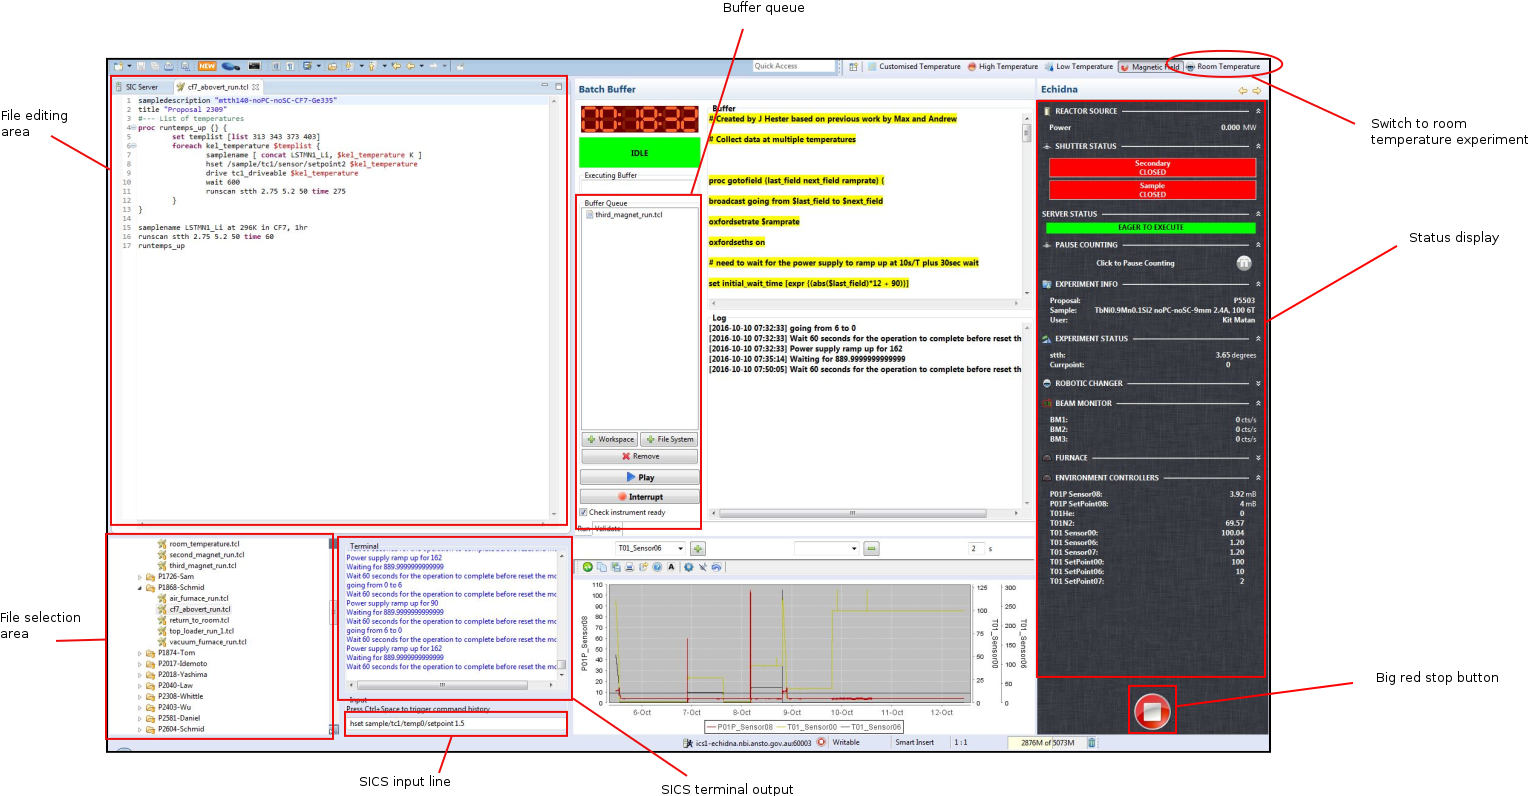
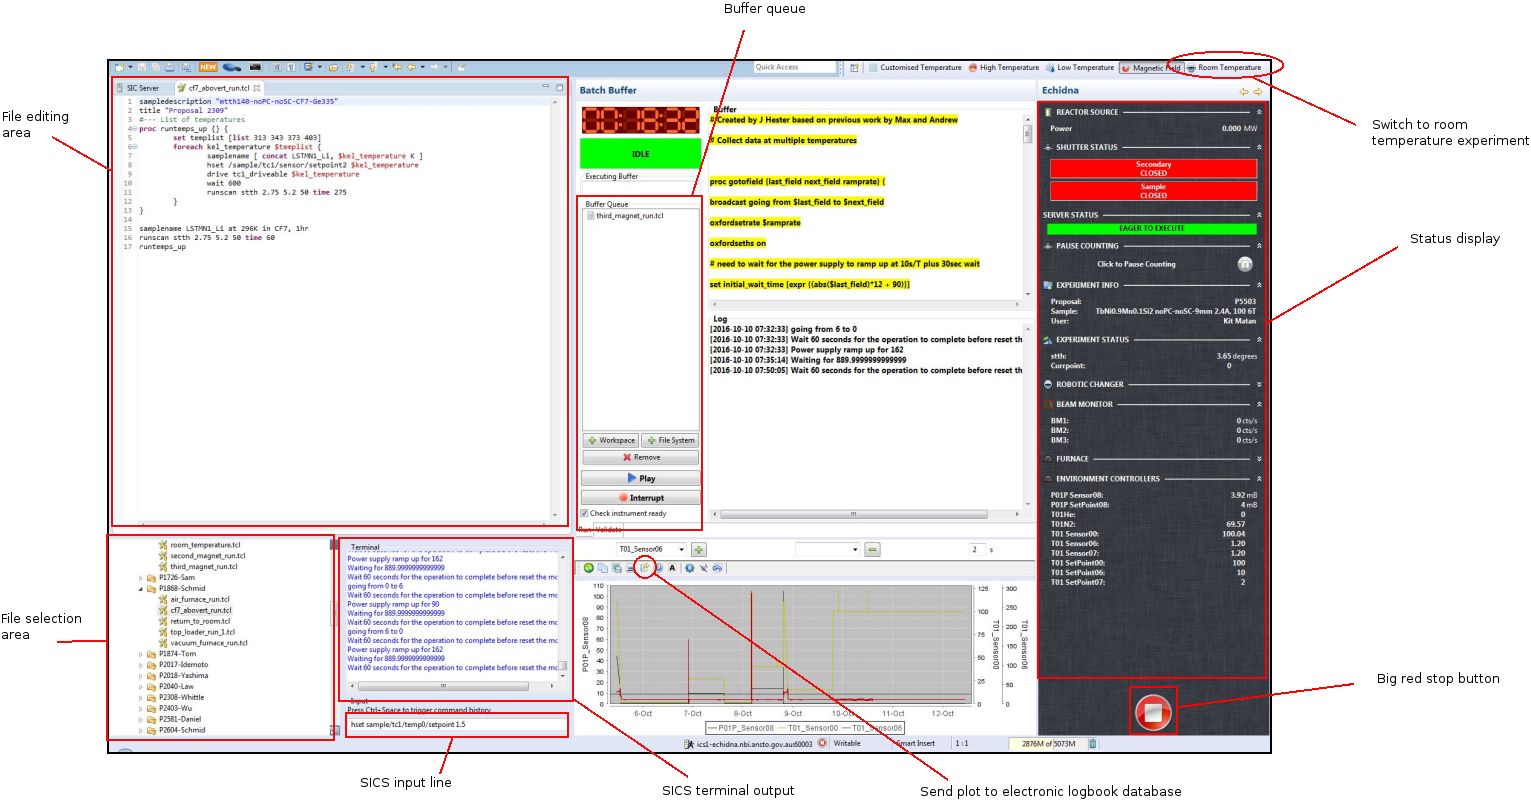
Updates to user manual.

diff --git a/Manual/user_guide.html b/Manual/user_guide.html
@@ -460,7 +460,8 @@ action should be necessary.</p>
 <h3 id="_electronic_logbook">Electronic logbook</h3>
 <div class="paragraph">
 <p><a href="http://www.nbi.ansto.gov.au/echidna/status/notebook.html">An interactive electronic logbook</a>
-is providedfor users and instrument scientists to document the experiment.  All
+(<a href="http://www.nbi.ansto.gov.au/echidna/status/notebook.html" class="bare">http://www.nbi.ansto.gov.au/echidna/status/notebook.html</a>)
+is provided for users and instrument scientists to document the experiment.  All
 plots generated during data analysis are instantly accessible for
 insertion into the main logbook through the "Database" tab at the far
 right of the browser page.  If a recent plot does not appear, scroll
@@ -469,14 +470,13 @@ down and up again to the top to initiate a refresh.</p>
 <div class="paragraph">
 <p>Note that all Gumtree plots also have a 'send to logbook database'
 icon (see Figure 2) which can be used to place the plot into the
-database tab ready for insertion into the logbook.  This is
-particularly useful for placing temperature traces into the logbook.</p>
+database tab ready for insertion into the logbook.</p>
 </div>
 <div class="paragraph">
 <p>Logbook snapshots are recorded every ten minutes in a backed-up
 version control system to there is no danger of any loss of notes. PDF
-versions can be generated at the end of the experiment as a permanent
-record.</p>
+versions can be generated as a permanent record by clicking on the
+PDF icon at the top of the logbook page.</p>
 </div>
 </div>
 <div class="sect2">
@@ -659,7 +659,7 @@ measured temperature has reached the target value before you start a
 scan.  Some typical names for <code>&lt;something&gt;</code> are <code>tc1_driveable</code>
 (temperature at top of sample), <code>tc1_driveable2</code> (temperature at
 bottom of sample) and <code>tc2_driveable</code> (temperature of cold head).
-Typing the "motor" name by itself gives the current value.</p>
+Typing each of these names by themselves gives the current value.</p>
 </dd>
 <dt class="hdlist1"><code>wait nnn</code></dt>
 <dd>
@@ -701,7 +701,8 @@ notebook (<a href="#_electronic_logbook">see above</a>).</p>
 <div class="paragraph">
 <p>If away from the instrument, mobile-phone optimised Echidna status is
 available worldwide at
-<a href="http://www.nbi.ansto.gov.au/echidna/status/mobile.html">the Echidna Status Page</a>.</p>
+<a href="http://www.nbi.ansto.gov.au/echidna/status/mobile.html">the Echidna Status Page</a>
+(<a href="http://www.nbi.ansto.gov.au/echidna/status/mobile.html" class="bare">http://www.nbi.ansto.gov.au/echidna/status/mobile.html</a>)</p>
 </div>
 </div>
 <div class="sect2">
@@ -1602,7 +1603,7 @@ manual and send a pull request after editing the raw text.</p>
 </div>
 <div id="footer">
 <div id="footer-text">
-Last updated 2016-11-07 16:35:04 AEDT
+Last updated 2016-11-08 10:07:35 AEDT
 </div>
 </div>
 </body>
